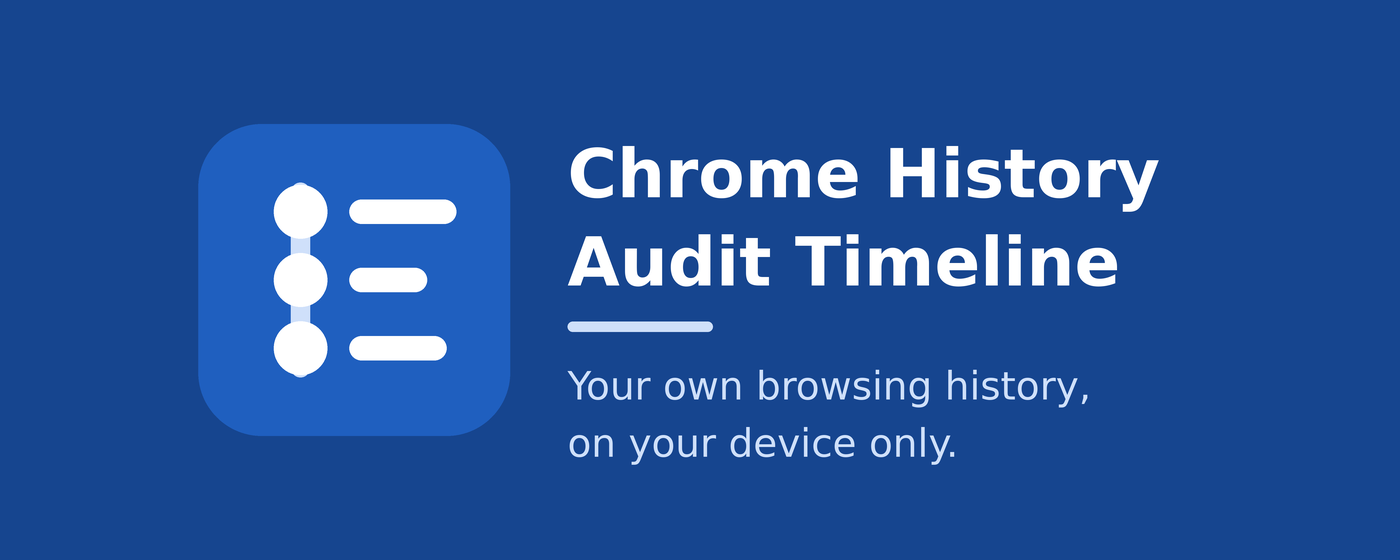
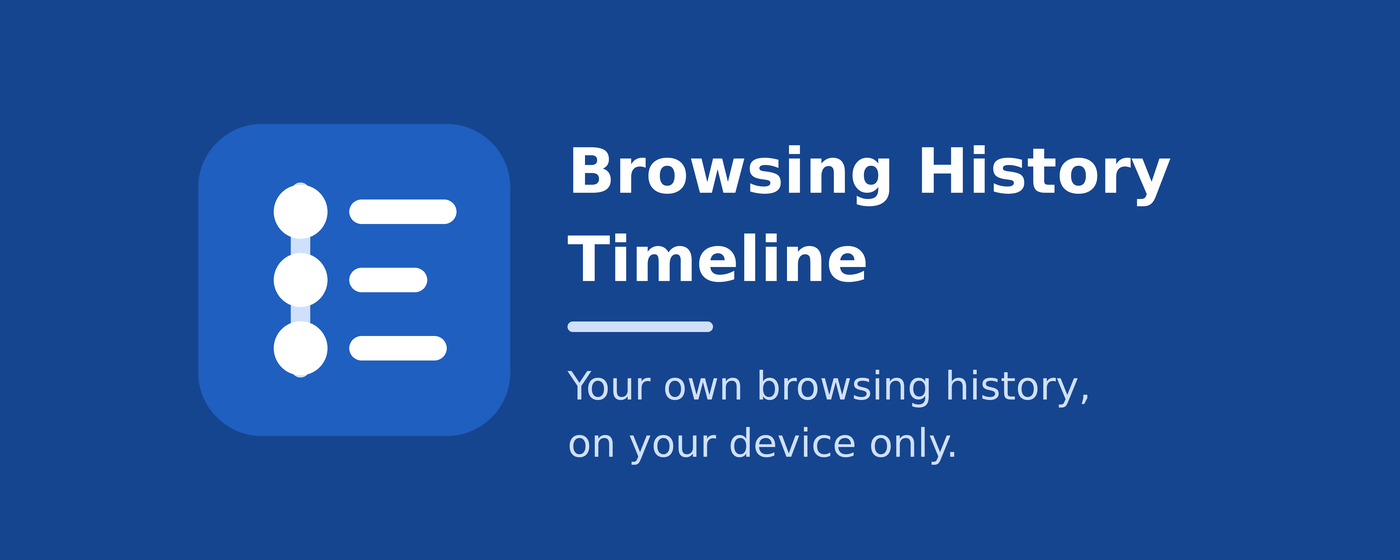
Rename the extension to Browsing History Timeline, version 0.3.0

Changed region(s): [[0.3993, 0.2429, 0.86, 0.3946], [0.3993, 0.3946, 0.7986, 0.5161]]

diff --git a/extension/ui/model.js b/extension/ui/model.js
@@ -3,7 +3,7 @@ import { dayKey, filterVisits, DEFAULT_SESSION_GAP_MS } from '../src/history/ind
 
 export const MASK = '[hidden]';
 export const plural = (n, one, many = one + 's') => `${n.toLocaleString()} ${n === 1 ? one : many}`;
-export const EMPTY_HISTORY = 'Chrome has no browsing history for this profile (it may be new, or its history was cleared). Visit some pages, then reload this tab.';
+export const EMPTY_HISTORY = 'The browser has no browsing history for this profile (it may be new, or its history was cleared). Visit some pages, then reload this tab.';
 export const EMPTY_FILTERED = 'No visits match these filters.';
 const pad = (n) => String(n).padStart(2, '0');
 

diff --git a/extension/timeline.html b/extension/timeline.html
@@ -4,7 +4,7 @@
 <meta charset="utf-8">
 <meta name="viewport" content="width=device-width, initial-scale=1">
 <meta name="color-scheme" content="light dark">
-<title>History timeline</title>
+<title>Browsing History Timeline</title>
 <link rel="icon" href="ui/favicon.svg" type="image/svg+xml">
 <link rel="stylesheet" href="ui/timeline.css">
 </head>

diff --git a/extension/ui/test-support/timeline-fixture.html b/extension/ui/test-support/timeline-fixture.html
@@ -4,7 +4,7 @@
 <meta charset="utf-8">
 <meta name="viewport" content="width=device-width, initial-scale=1">
 <meta name="color-scheme" content="light dark">
-<title>History timeline</title>
+<title>Browsing History Timeline</title>
 <link rel="icon" href="../favicon.svg" type="image/svg+xml">
 <link rel="stylesheet" href="../timeline.css">
 </head>

diff --git a/extension/store/make-promo-tile.py b/extension/store/make-promo-tile.py
@@ -24,8 +24,8 @@ def render(W, H, u, path):
     for y in (36, 64, 92): ci(ox + 42 * k, oy + y * k, 11 * k, WHITE)
     for y, w in ((31, 44), (59, 32), (87, 40)): rr(ox + 62 * k, oy + y * k, w * k, 10 * k, 5 * k, WHITE)
     tx = ox + 142 * u
-    for i, line in enumerate(('Chrome History', 'Audit Timeline')):
-        d.text((tx * S, (oy + (4 + i * 34) * u) * S), line, font=font(BOLD, 26), fill=WHITE)
+    for i, line in enumerate(('Browsing History', 'Timeline')):
+        d.text((tx * S, (oy + (4 + i * 34) * u) * S), line, font=font(BOLD, 24), fill=WHITE)
     rr(tx, oy + 76 * u, 56 * u, 4 * u, 2 * u, LINE)
     for i, line in enumerate(('Your own browsing history,', 'on your device only.')):
         d.text((tx * S, (oy + (92 + i * 22) * u) * S), line, font=font(REG, 15), fill=LINE)

diff --git a/extension/store/LISTING.md b/extension/store/LISTING.md
@@ -1,9 +1,9 @@
-# Chrome Web Store listing text
+# Web Store listing text
 
 Everything here is draft text to paste into the developer dashboard. Nothing has been submitted.
 
 ## Name
-Chrome History Audit Timeline
+Browsing History Timeline
 
 ## Short description (max 132 characters; also the manifest description)
 A local, read-only audit timeline of this profile's browsing history. Makes no network requests.
@@ -18,9 +18,9 @@ Optional small tile (440x280, `promo-tile-440x280.png`) and marquee (1400x560, `
 Show the user an audit timeline of their own browsing history, flagging potentially sensitive categories, entirely on their device.
 
 ## Detailed description
-See what your Chrome profile has recorded about you.
+See what your browser profile has recorded about you.
 
-Chrome History Audit Timeline turns your browsing history into a readable timeline: visits grouped into days and sessions, an activity chart, top sites, search and filters (date range, site, transition type), and CSV export.
+Browsing History Timeline turns your browsing history into a readable timeline: visits grouped into days and sessions, an activity chart, top sites, search and filters (date range, site, transition type), and CSV export.
 
 Visits that look sensitive (gambling, health, finance, adult content, privacy tools, news and politics) get clear badges, per-day counts and category filters, so you can review what is recorded before you share a screen, hand over a device, or clean up. "Hide sensitive details" masks flagged titles, URLs and sites everywhere, including in the CSV export.
 
@@ -30,11 +30,11 @@ Private by design:
 - The only thing it stores is your optional custom rules (and the hide toggle) in this browser profile.
 - Open source; the category rules are plain lists you can extend with your own "add" and "allow" rules.
 
-Limits: current profile only, no incognito, and no time-on-page durations (Chrome does not provide them). On managed devices an administrator may block the extension.
+Works in Chromium-based browsers. Limits: current profile only, no incognito, and no time-on-page durations (the browser does not provide them). On managed devices an administrator may block the extension.
 
 ## Permission justifications
-- **history**: The whole purpose of the extension is to display the user's own browsing history. It uses `chrome.history.search` and `chrome.history.getVisits` to read URLs, titles, visit times and transition types. The data is shown only to the user on the extension's own page and is never transmitted; the extension has no network access.
-- **storage**: Saves the user's own classification rules (text) in `chrome.storage.local`. Nothing else is stored in it. (The "Hide sensitive details" on/off preference is kept in the extension page's local storage, which needs no permission.)
+- **history**: The whole purpose of the extension is to display the user's own browsing history. It uses the browser's history API to read URLs, titles, visit times and transition types. The data is shown only to the user on the extension's own page and is never transmitted; the extension has no network access.
+- **storage**: Saves the user's own classification rules (text) in the extension's local storage area. Nothing else is stored in it. (The "Hide sensitive details" on/off preference is kept in the extension page's local storage, which needs no permission.)
 
 No host permissions are requested. No remote code is used.
 

diff --git a/extension/store/PRIVACY.md b/extension/store/PRIVACY.md
@@ -1,14 +1,14 @@
-# Privacy policy: Chrome History Audit Timeline
+# Privacy policy: Browsing History Timeline
 
 _Last updated: see the git history of this file._
 
-Chrome History Audit Timeline is a browser extension that shows you an audit timeline of your own browsing history, so you can see what a profile has recorded and which visits look sensitive.
+Browsing History Timeline is a browser extension that shows you an audit timeline of your own browsing history, so you can see what a profile has recorded and which visits look sensitive.
 
 ## What it does with your data
 
-- **Reads your browsing history, on your device only.** It uses Chrome's `history` permission to read the URLs, page titles, visit times and transition types of the current Chrome profile. This happens inside the extension page and is shown only to you.
+- **Reads your browsing history, on your device only.** It uses the browser's history permission to read the URLs, page titles, visit times and transition types of the current browser profile. This happens inside the extension page and is shown only to you.
 - **Makes no network requests.** The extension has no host permissions, no remote code, no analytics, no telemetry, no crash reporting and no accounts. Its content security policy (`default-src 'none'; connect-src 'none'`) forbids network connections from its pages, and its background script contains no network code.
-- **Stores one thing: your own rules.** If you write custom classification rules (`add`/`allow` lists of domains and keywords) they are saved as text in `chrome.storage.local`, which stays in this browser profile. The `storage` permission exists only for this. The on/off setting "Hide sensitive details" is remembered in the extension page's own local storage, also inside this browser profile. Your history itself is never copied or stored by the extension: it is read each time the timeline opens and kept in memory only while the page is open.
+- **Stores one thing: your own rules.** If you write custom classification rules (`add`/`allow` lists of domains and keywords) they are saved as text in the extension's local storage area, which stays in this browser profile. The `storage` permission exists only for this. The on/off setting "Hide sensitive details" is remembered in the extension page's own local storage, also inside this browser profile. Your history itself is never copied or stored by the extension: it is read each time the timeline opens and kept in memory only while the page is open.
 - **Does not modify or delete history.** It only reads.
 - **Classification is local.** Flagging categories such as gambling or health uses a rule list bundled with the extension and runs in your browser. No visit is sent anywhere to be classified.
 - **CSV export is local.** "Export CSV" creates a file in your browser and saves it where you choose. Nothing is uploaded. With "Hide sensitive details" on, flagged values in the export are masked.
@@ -19,7 +19,7 @@ It does not sell, share, transfer or disclose any data to anyone, because it nev
 
 ## Limits
 
-It reads only the current Chrome profile, and does not see incognito history. It cannot read history on other devices unless Chrome has synced it into this profile.
+It reads only the current browser profile, and does not see incognito history. It cannot read history on other devices unless the browser has synced it into this profile.
 
 ## Removing your data
 

diff --git a/extension/README.md b/extension/README.md
@@ -1,4 +1,4 @@
-# Chrome extension (Manifest V3)
+# Browsing History Timeline extension (Manifest V3)
 
 An audit timeline for the browsing history of the profile it is installed in. It reads history through `chrome.history`, makes no network requests, and requests only the `history` and `storage` permissions (`storage` holds the optional user classification rules in `chrome.storage.local`; nothing leaves the device). Incognito browsing is not recorded by Chrome and is not accessible to the extension.
 

diff --git a/extension/store/CHECKLIST.md b/extension/store/CHECKLIST.md
@@ -1,4 +1,4 @@
-# Chrome Web Store submission checklist
+# Web Store submission checklist for Browsing History Timeline
 
 Status as of this branch: the package, assets and text are ready; **nothing has been submitted** and nothing below under "You must do" has been done.
 
